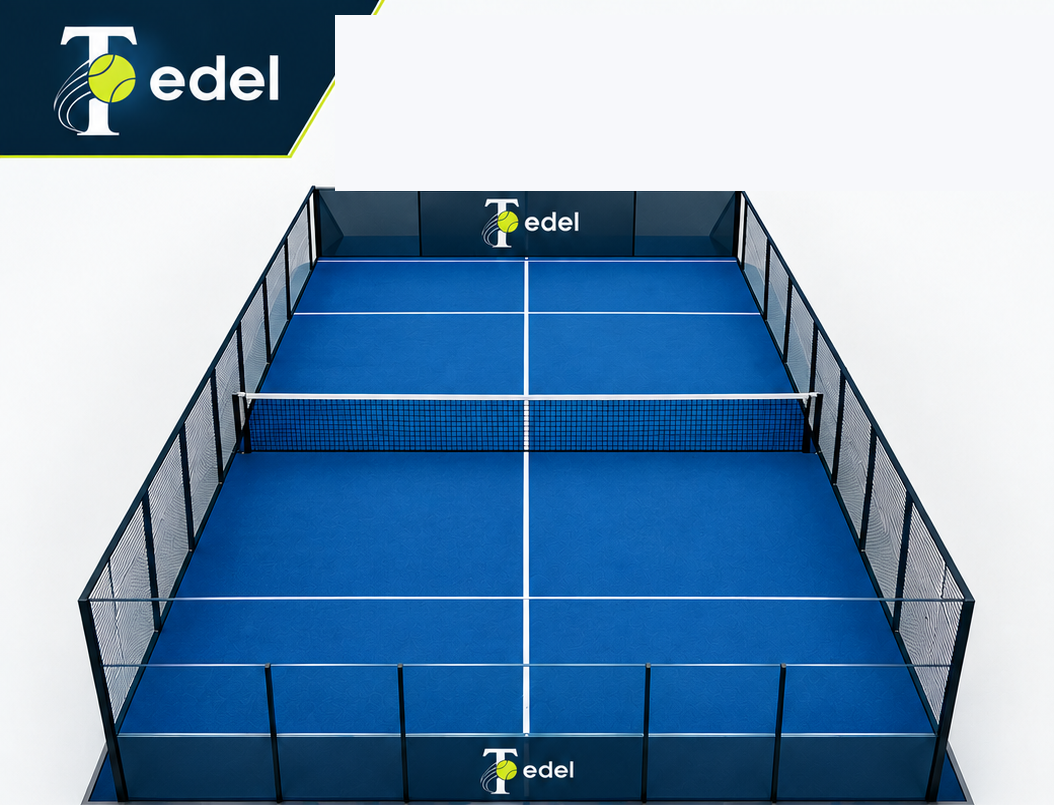
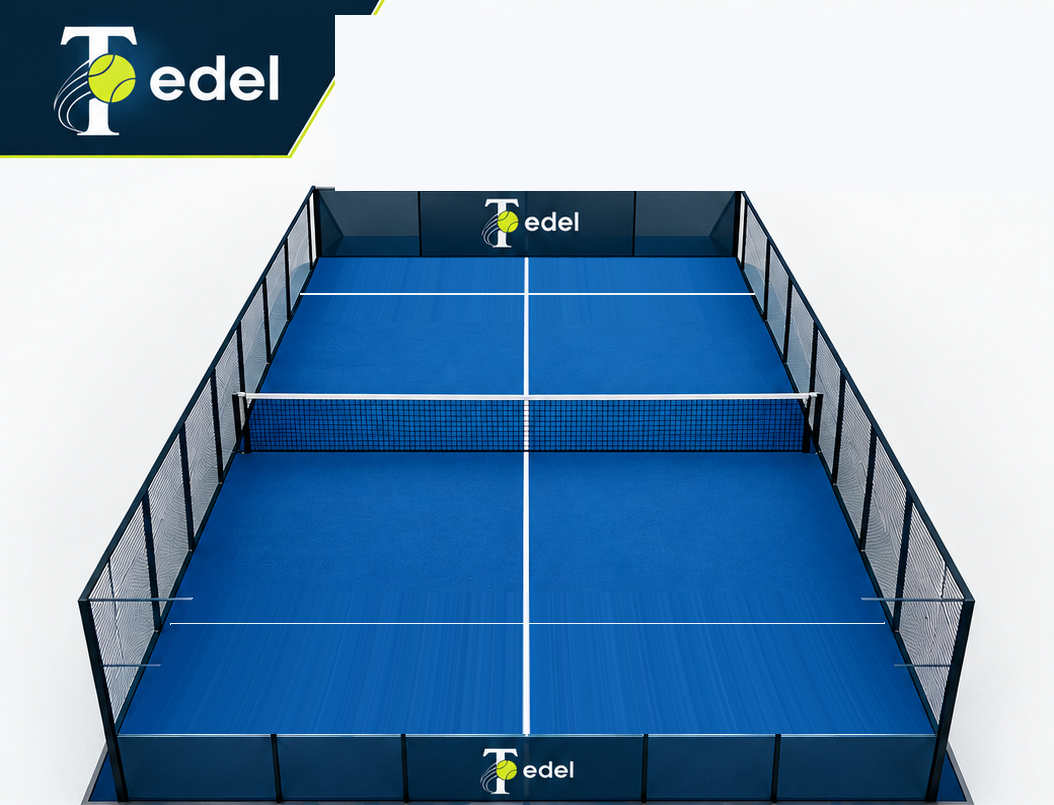
cambio de pista de padel, y calibraciones varias

diff --git a/src/App.jsx b/src/App.jsx
@@ -607,8 +607,8 @@ function PadelCourtLines({ w, h }) {
   const stroke = "#0f766e";
   const strokeWidth = 2;
   const netY = h * 0.5;
-  const serviceTop = h * 0.18;
-  const serviceBottom = h * 0.82;
+  const serviceTop = h * (0.5 - 6.95 / 20);
+  const serviceBottom = h * (0.5 + 6.95 / 20);
   const midX = w * 0.5;
   return (
     <g>
@@ -754,18 +754,33 @@ function ProjectScreen({ project, plan, coachName, onExportBlocked, tool, setToo
       const TEMPLATES = {
         padel: {
           src: "/pdf-template-padel.png",
-          BL: [318, 272], BR: [737, 263], FR: [886, 637], FL: [157, 637],
-          NET_TOP_L: [263, 397], NET_TOP_R: [790, 397],
-          NET_BASE_L: [240, 450], NET_BASE_R: [812, 450],
+          BL: [318, 260], BR: [737, 259], FR: [935, 733], FL: [120, 734],
+          NET_TOP_L: [247, 394], NET_TOP_R: [808, 395],
+          NET_BASE_L: [248, 450], NET_BASE_R: [805, 450],
+          // Línea de servicio: reglamento FIP, 6.95m de la red (NO 3m — error corregido).
+          // Sobre 20m de pista total, queda muy cerca del fondo, no del centro.
+          SERVE_BACK_L: [300, 293], SERVE_BACK_R: [754, 293],
+          SERVE_FRONT_L: [170, 623], SERVE_FRONT_R: [884, 622],
         },
         tenis: {
           src: "/pdf-template-tenis.png",
-          BL: [289, 291], BR: [769, 296], FR: [941, 707], FL: [249, 712],
-          NET_TOP_L: [277, 418], NET_TOP_R: [820, 418],
-          NET_BASE_L: [272, 470], NET_BASE_R: [842, 470],
+          BL: [351, 300], BR: [701, 300], FR: [824, 711], FL: [225, 712],
+          NET_TOP_L: [306, 419], NET_TOP_R: [741, 419],
+          NET_BASE_L: [297, 466], NET_BASE_R: [751, 467],
+          // Línea de servicio (a 6.40m de la red, sobre 23.77m de pista total): opcional.
+          SERVE_BACK_L: [376, 366], SERVE_BACK_R: [672, 366],
+          SERVE_FRONT_L: [328, 582], SERVE_FRONT_R: [722, 582],
+          // Líneas de individuales (a 1.37m de cada lateral de dobles, sobre 10.97m de ancho):
+          // opcional. Sin esto, esa línea interior se calcula por interpolación matemática y
+          // puede desviarse un poco por la distorsión propia del render de la foto.
+          SINGLES_BACK_L: [392, 300], SINGLES_BACK_R: [660, 301],
+          SINGLES_FRONT_L: [296, 711], SINGLES_FRONT_R: [752, 711],
         },
       };
       const tpl = TEMPLATES[isTenis ? "tenis" : "padel"];
+      // Fracción real (0=fondo, 1=frente) a la que cae la línea de servicio, calculada sobre la
+      // longitud real de la pista — no es un valor estimado, sale de las medidas oficiales.
+      const SERVE_T = isTenis ? 0.5 - 6.40 / 23.77 : 0.5 - 6.95 / 20;
 
       const templateImg = await new Promise((resolve, reject) => {
         const img = new Image();
@@ -780,7 +795,10 @@ function ProjectScreen({ project, plan, coachName, onExportBlocked, tool, setToo
 
       // ---- Overlay: los dibujos reales del profesor (flechas, conos, trazos), colocados con
       // perspectiva real sobre la foto ----
-      const { BL, BR, FR, FL, NET_TOP_L, NET_TOP_R, NET_BASE_L, NET_BASE_R } = tpl;
+      const {
+        BL, BR, FR, FL, NET_TOP_L, NET_TOP_R, NET_BASE_L, NET_BASE_R,
+        SERVE_BACK_L, SERVE_BACK_R, SERVE_FRONT_L, SERVE_FRONT_R,
+      } = tpl;
       const computeHomography = (dst) => {
         const [[x0, y0], [x1, y1], [x2, y2], [x3, y3]] = dst;
         const dx1 = x1 - x2, dx2 = x3 - x2, dx3 = x0 - x1 + x2 - x3;
@@ -799,22 +817,66 @@ function ProjectScreen({ project, plan, coachName, onExportBlocked, tool, setToo
           return [(a * u + b * v + c) / denom, (d * u + e * v + f) / denom];
         };
       };
-      // Fondo→cordón superior de la red (nunca pasa de ahí) / base de la red→frente (nunca empieza antes)
-      const backMap = computeHomography([BL, BR, NET_TOP_R, NET_TOP_L]);
-      const frontMap = computeHomography([NET_BASE_L, NET_BASE_R, FR, FL]);
-      const mapPt = (u, v) => (v < 0.5 ? backMap(u, v / 0.5) : frontMap(u, (v - 0.5) / 0.5));
-
-      // Para un segmento que cruza v=0.5: la parte trasera llega hasta el cordón superior de la
-      // red, la parte delantera empieza en la base — la línea "salta" la red en vez de atravesarla.
-      const mapSegment = (x1, y1, x2, y2) => {
-        if ((y1 < 0.5) === (y2 < 0.5)) return [[mapPt(x1, y1), mapPt(x2, y2)]];
-        const t = (0.5 - y1) / (y2 - y1);
-        const xCross = x1 + (x2 - x1) * t;
-        const pBack = backMap(xCross, 1);   // punto de cruce, lado trasero (cordón superior)
-        const pFront = frontMap(xCross, 0); // punto de cruce, lado delantero (base)
-        if (y1 < 0.5) return [[mapPt(x1, y1), pBack], [pFront, mapPt(x2, y2)]];
-        return [[mapPt(x1, y1), pFront], [pBack, mapPt(x2, y2)]];
+      // ---- Bandas de profundidad: cada tramo entre dos líneas reales conocidas (fondo, línea de
+      // servicio si está calibrada, red, línea de servicio, frente) tiene su propia homografía.
+      // Más bandas = más precisión en el centro de la pista, no solo en los extremos. La red se
+      // trata con dos niveles a la misma profundidad (cordón arriba / base abajo) porque tiene
+      // altura física real y por eso genera un salto visual en la foto. ----
+      const NET_T = 0.5;
+      const LEVELS = [
+        { t: 0, left: BL, right: BR },
+        ...(SERVE_BACK_L ? [{ t: SERVE_T, left: SERVE_BACK_L, right: SERVE_BACK_R }] : []),
+        { t: NET_T, left: NET_TOP_L, right: NET_TOP_R },
+        { t: NET_T, left: NET_BASE_L, right: NET_BASE_R },
+        ...(SERVE_FRONT_L ? [{ t: 1 - SERVE_T, left: SERVE_FRONT_L, right: SERVE_FRONT_R }] : []),
+        { t: 1, left: FL, right: FR },
+      ];
+      const bands = [];
+      for (let i = 0; i < LEVELS.length - 1; i++) {
+        const lo = LEVELS[i], hi = LEVELS[i + 1];
+        if (lo.t === hi.t) continue; // el salto de la red no es una banda interpolable
+        bands.push({ t0: lo.t, t1: hi.t, map: computeHomography([lo.left, lo.right, hi.right, hi.left]) });
+      }
+      const backBands = bands.filter((b) => b.t1 <= NET_T);
+      const frontBands = bands.filter((b) => b.t0 >= NET_T);
+      const mapPtRaw = (u, v) => {
+        const list = v < NET_T ? backBands : frontBands;
+        const band = list.find((b) => v >= b.t0 && v <= b.t1) || list[v < NET_T ? 0 : list.length - 1];
+        const localV = (v - band.t0) / (band.t1 - band.t0);
+        return band.map(u, localV);
       };
+
+      // ---- Corrección de las líneas de individuales (tenis): son líneas interiores, no el
+      // borde de la pista, así que la homografía las sitúa por cálculo puro y puede desviarse
+      // por la distorsión propia del render de la foto. Si están calibradas (fondo y frente),
+      // se mide la diferencia real vs. la calculada en esos dos puntos y se aplica esa misma
+      // corrección, interpolada en profundidad, a toda la franja entre las dos líneas de
+      // individuales — el resto de la pista (fuera de esa franja) no se toca. ----
+      const SINGLES_U = 1.37 / 10.97;
+      let mapPt = mapPtRaw;
+      if (isTenis && tpl.SINGLES_BACK_L && tpl.SINGLES_FRONT_L) {
+        const diff = (real, calc) => [real[0] - calc[0], real[1] - calc[1]];
+        const corrBackL = diff(tpl.SINGLES_BACK_L, mapPtRaw(SINGLES_U, 0));
+        const corrBackR = diff(tpl.SINGLES_BACK_R, mapPtRaw(1 - SINGLES_U, 0));
+        const corrFrontL = diff(tpl.SINGLES_FRONT_L, mapPtRaw(SINGLES_U, 1));
+        const corrFrontR = diff(tpl.SINGLES_FRONT_R, mapPtRaw(1 - SINGLES_U, 1));
+        const weightFor = (u) => {
+          if (u <= 0 || u >= 1) return 0;
+          if (u < SINGLES_U) return u / SINGLES_U;
+          if (u > 1 - SINGLES_U) return (1 - u) / SINGLES_U;
+          return 1;
+        };
+        mapPt = (u, v) => {
+          const [x, y] = mapPtRaw(u, v);
+          const w = weightFor(u);
+          if (w === 0) return [x, y];
+          const [cbx, cby] = u > 0.5 ? corrBackR : corrBackL;
+          const [cfx, cfy] = u > 0.5 ? corrFrontR : corrFrontL;
+          return [x + (cbx * (1 - v) + cfx * v) * w, y + (cby * (1 - v) + cfy * v) * w];
+        };
+      }
+
+      const mapSegment = (x1, y1, x2, y2) => [[mapPt(x1, y1), mapPt(x2, y2)]];
 
       const ovCanvas = document.createElement("canvas");
       ovCanvas.width = templateImg.width; ovCanvas.height = templateImg.height;
@@ -827,7 +889,7 @@ function ProjectScreen({ project, plan, coachName, onExportBlocked, tool, setToo
         }
       };
 
-      // trazos a mano alzada (se parten en cada cruce de la red)
+      // trazos a mano alzada (siempre en línea recta, también al cruzar la red)
       for (const s of project.strokes) {
         if (!s.points || s.points.length < 2) continue;
         for (let i = 0; i < s.points.length - 1; i++) {
@@ -835,7 +897,7 @@ function ProjectScreen({ project, plan, coachName, onExportBlocked, tool, setToo
           strokeSegments(mapSegment(p1.x, p1.y, p2.x, p2.y), s.color, 5);
         }
       }
-      // flechas (la punta siempre se dibuja en su posición real; si cruza la red, el trazo salta)
+      // flechas (siempre en línea recta, también al cruzar la red; la punta va en su posición real)
       for (const a of project.arrows) {
         const segs = mapSegment(a.x1, a.y1, a.x2, a.y2);
         strokeSegments(segs, a.color, 5.5);
@@ -849,10 +911,18 @@ function ProjectScreen({ project, plan, coachName, onExportBlocked, tool, setToo
         octx.closePath();
         octx.fillStyle = a.color; octx.fill();
       }
-      // conos: tamaño mayor cuanto más cerca (v alto) para respetar la perspectiva
+      // conos: el ancho real de la pista en esa profundidad (según la calibración) marca el
+      // tamaño, con el mismo CONE_SIZE_RATIO que usa el editor 2D — así el cono guarda la misma
+      // proporción visual en el PDF que en pantalla, cerca o lejos.
+      const localCourtWidthPx = (v) => {
+        const [xL, yL] = mapPt(0, v);
+        const [xR, yR] = mapPt(1, v);
+        return Math.hypot(xR - xL, yR - yL);
+      };
       for (const c of cones) {
         const [px, py] = mapPt(c.x, c.y);
-        const size = 14 + 16 * c.y; // c.y: 0 (fondo) a 1 (frente)
+        const width = localCourtWidthPx(c.y) * CONE_SIZE_RATIO;
+        const size = width / 1.7; // el triángulo dibujado abajo mide 1.7×size de ancho de base
         octx.beginPath();
         octx.moveTo(px, py - size);
         octx.lineTo(px + size * 0.85, py + size * 0.8);
